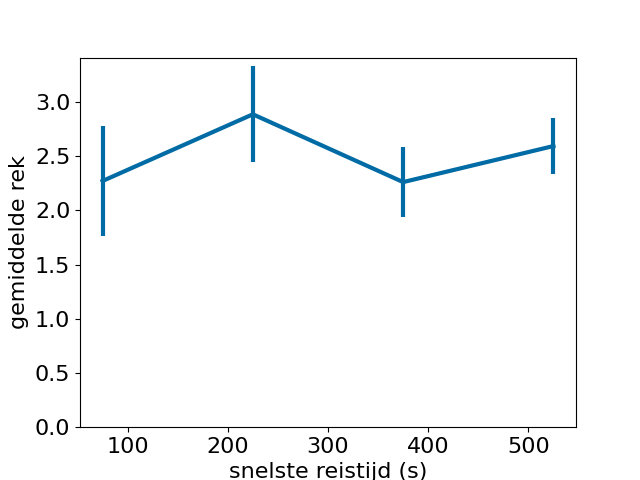
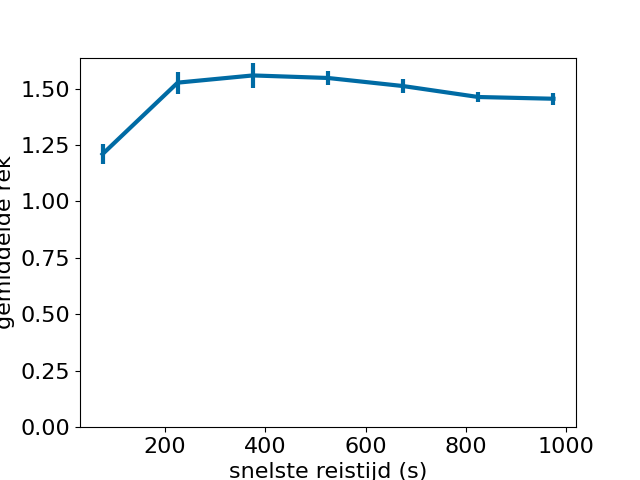
gravity pressure is fixed (added wrong edge weights) + also does the cheating thing now

diff --git a/gravity_pressure.py b/gravity_pressure.py
@@ -1,14 +1,34 @@
 import numpy as np
 import coordinate_functions as cf
 import collections
+import time
 
-"""
-does the gravity pressure algorithm as found in Hyperbolic Embedding and Routing for
-Dynamic Graphs
-"""
+def remove_doubles(route_list): # will return a route list without doubles and thus all the in between nodes removed too
 
-def gravity_pressure(id1, id2, graph, distance_function=cf.distance, ratio_travelled=False, plot_stuck=False): # id1 is start node id2 is go to node
-  
+    inside_dict = dict() # dictionary since we want the last index as well
+
+    index = -1
+
+    for i in range(len(route_list) - 1, -1 , -1):
+
+        if route_list[i] in inside_dict.keys():
+            index = i;
+        
+        else:
+            inside_dict[route_list[i]] = i
+
+    if index == -1:
+        return route_list
+
+    return remove_doubles(route_list[ :index]  + route_list[inside_dict[route_list[index]]: ]) # there might be more doubles left, 
+
+
+def gravity_pressure(id1, id2, graph, distance_function=cf.distance, ratio_travelled=False, plot_stuck=False): # id1 is start node id2 is go to node 
+  """
+  does the gravity pressure algorithm as found in Hyperbolic Embedding and Routing for
+  Dynamic Graphs 10.1109/infcom.2009.5062083
+  """
+
   inf = np.inf
   total_nodes = graph.nodes()
   
@@ -26,12 +46,12 @@ def gravity_pressure(id1, id2, graph, distance_function=cf.distance, ratio_trave
   min_distance = inf
 
   while (current_node != id2):
-    
+
      if gravity_mode is True:
 
         for _ , neighbor_node, edge_weight in graph.edges(current_node, data = 'travel_time'):
       
-            new_distance = distance_function(id2, neighbor_node, graph) + edge_weight
+            new_distance = distance_function(id2, neighbor_node, graph)
             
             if new_distance < min_distance:
                 node_with_min_distance = neighbor_node
@@ -40,44 +60,62 @@ def gravity_pressure(id1, id2, graph, distance_function=cf.distance, ratio_trave
 
         if current_node == node_with_min_distance:
       # enter the pressure mode
-                gravity_mode = False
-                visits[current_node] += 1 
-                d_v = min_distance # distance that needs to get beaten in the pressure mode
+            gravity_mode = False
+            visits[current_node] += 1 
+            d_v = min_distance # distance that needs to get beaten in the pressure mode
+            continue
+
+     
      else: # pressure mode
 
-        canidates = set()
+        canidates = dict()
         current_min_visits = np.inf
         
         for _ , neighbor_node, edge_weight in graph.edges(current_node, data = 'travel_time'):
             # find the canidates
             if visits[neighbor_node] < current_min_visits:
-                canidates = set() 
-                canidates.add(neighbor_node)
+                canidates = dict() 
+                canidates[neighbor_node] = edge_weight
                 current_min_visits = visits[neighbor_node]
             
             elif visits[neighbor_node] == current_min_visits:
-                canidates.add(neighbor_node)
+                canidates[neighbor_node] = edge_weight
         
-
         min_distance = inf
-        for node in canidates: # try to minimize the loss so get as close as possible
-            new_distance = distance_function(id2, node, graph) + graph[node][current_node]['travel_time']
+        for node, edge_weight in canidates.items(): # try to minimize the loss so get as close as possible
+            new_distance = distance_function(id2, node, graph)
             if new_distance < min_distance:
                 node_with_min_distance = node
                 min_distance = new_distance
                 min_edge_weight = edge_weight
+                
 
         visits[current_node] += 1
 
-        if new_distance < d_v: # if progress compared to the gravity mode was booked then switch back
+        if min_distance < d_v: # if progress compared to the gravity mode was booked then switch back
             gravity_mode = True
-        
+            continue
+
      sec_travelled += min_edge_weight
      current_node = node_with_min_distance
      route.append(current_node) 
+  
+
+  # now we can substract the stretch we did too much aka the double or triple visited nodes
+  route_removed_extra_steps = remove_doubles(route)
+
+  assert id1 == route_removed_extra_steps[0] and id2 == route_removed_extra_steps[-1], 'something went wrong in the remove doubles'
+  
+  i = 0
+  sec_travelled_removed = 0
+  while i < len(route_removed_extra_steps) - 1: # recount the travel time with this new route
+      sec_travelled_removed += graph[route_removed_extra_steps[i]][route_removed_extra_steps[i+1]]['travel_time']
+      i += 1
+
+  assert sec_travelled >= sec_travelled_removed, 'wow this is strange removing nodes adds length'
 
   if ratio_travelled:
-    return sec_travelled, 1 # reached the end
+    return sec_travelled_removed, 1 # reached the end
   
-  return sec_travelled
+  return sec_travelled_removed
 

diff --git a/generate_data_greedy.py b/generate_data_greedy.py
@@ -192,7 +192,7 @@ def data_generator(name, functions, foldername, number_of_routes_pre_compute=80,
     plt.ylabel('gemiddelde rek')
     plt.ylim(bottom=0)
     #plt.title(f'{name} average stretch')
-    plt.savefig(f'./{foldername[x]}/{name}_average_stretch.png')
+    plt.savefig(f'./{foldername[x]}/{name}_average_stretch.png',bbox_inches='tight')
     plt.clf() 
     
     plt.errorbar(base[:-1] + step_size/2, average_ratio_travelled, yerr=standard_dev_on_mean_ratio_travelled, linewidth=3) # the :-1 because we only plot the middle and end value + half is outside our plotting region
@@ -201,7 +201,7 @@ def data_generator(name, functions, foldername, number_of_routes_pre_compute=80,
     plt.ylabel('ratio afgelegd')
     plt.ylim(bottom=0)
     #plt.title(f'{name} ratio travelled')
-    plt.savefig(f'./{foldername[x]}/{name}_ratio_travelled.png')
+    plt.savefig(f'./{foldername[x]}/{name}_ratio_travelled.png',bbox_inches='tight')
     plt.clf() 
   
   # generate timing plot
@@ -215,9 +215,9 @@ def data_generator(name, functions, foldername, number_of_routes_pre_compute=80,
   
 name_list = ['New Dehli','Nairobi', 'Rio de Janeiro', 'Brugge', 'Manhattan']
 
-functions = [hr.hyperbolic_greedy_forwarding] #,hr.hyperbolic_greedy_forwarding gf.greedy_forwarding ,gfwe.greedy_forwarding_with_edge_weight, gtas.greedy_forwarding_then_a_star,  grpf.greedy_forwarding_rpf, gm.manhattan_greedy_forwarding,gp.gravity_pressure]
+functions = [gp.gravity_pressure] #,hr.hyperbolic_greedy_forwarding gf.greedy_forwarding ,gfwe.greedy_forwarding_with_edge_weight, gtas.greedy_forwarding_then_a_star,  grpf.greedy_forwarding_rpf, gm.manhattan_greedy_forwarding,gp.gravity_pressure]
 
-foldernames = ['greedy_hyperbolic'] #, 'normal_greedy','greedy_with_edge_weight','greedy_then_a_star', 'greedy_rpf', 'greedy_manhattan', 'greedy_hyperbolic','gravity_pressure']
+foldernames = ['gravity_pressure'] #, 'normal_greedy','greedy_with_edge_weight','greedy_then_a_star', 'greedy_rpf', 'greedy_manhattan', 'greedy_hyperbolic','gravity_pressure', 'greedy_hyperbolic']
 
 for name in name_list:
   data_generator(name, functions, foldernames,number_of_routes_pre_compute=10, step_size=150, amount_of_samples_per_bin=70)

diff --git a/compare_speed.py b/compare_speed.py
@@ -56,7 +56,7 @@ def speed_comparator(name):
     assert abs(b-c) < 10**-2 and abs(d-c) < 10**-2 and abs(a-c) < 10**-2 and abs(a-e) < 10**-2, f'{c} dwpq and {b} normal dijkstra {d} astar {a} networkx {e} astar wpq'
     
 
-  plt.bar(['Networkx dijkstra', 'Dijkstra', 'Dijkstra w/ pq', 'A*', 'A* w/ pq'],np.array([dijkstra_networkx_speed, dijkstra_speed, dwpq_speed, a_star_speed, a_star_wpq_speed])/number_of_routes)
+  plt.bar(['Networkx dijkstra', 'Dijkstra', 'Dijkstra w/ pq', 'A*', 'A* w/ pq'],np.array([dijkstra_networkx_speed, dijkstra_speed, dwpq_speed, a_star_speed, a_star_wpq_speed])/len(list_indices_start))
   plt.title(f'{name} execution time per path')
   plt.xlabel('method')
   plt.ylabel('execution time per path (s)')

diff --git a/hyperbolic_embedder.py b/hyperbolic_embedder.py
@@ -272,6 +272,7 @@ def check_size_embedding(node_dict, name):
     grootte_pickle =  os.path.getsize(f'./hyperbolic_saved/{name}.pickle')
     print(f"de pickle grootte van het bestand in bytes is {grootte_pickle}")
 
+"""
 
 graph = nf.make_scale_free_graph(10000, 2.1)
 
@@ -283,3 +284,4 @@ min_tree = nx.algorithms.tree.mst.minimum_spanning_tree(graph, weight='travel_ti
 node_dict = hyperbolic_embed(min_tree)
 
 check_size_embedding(node_dict, 'scale_free')
+"""
